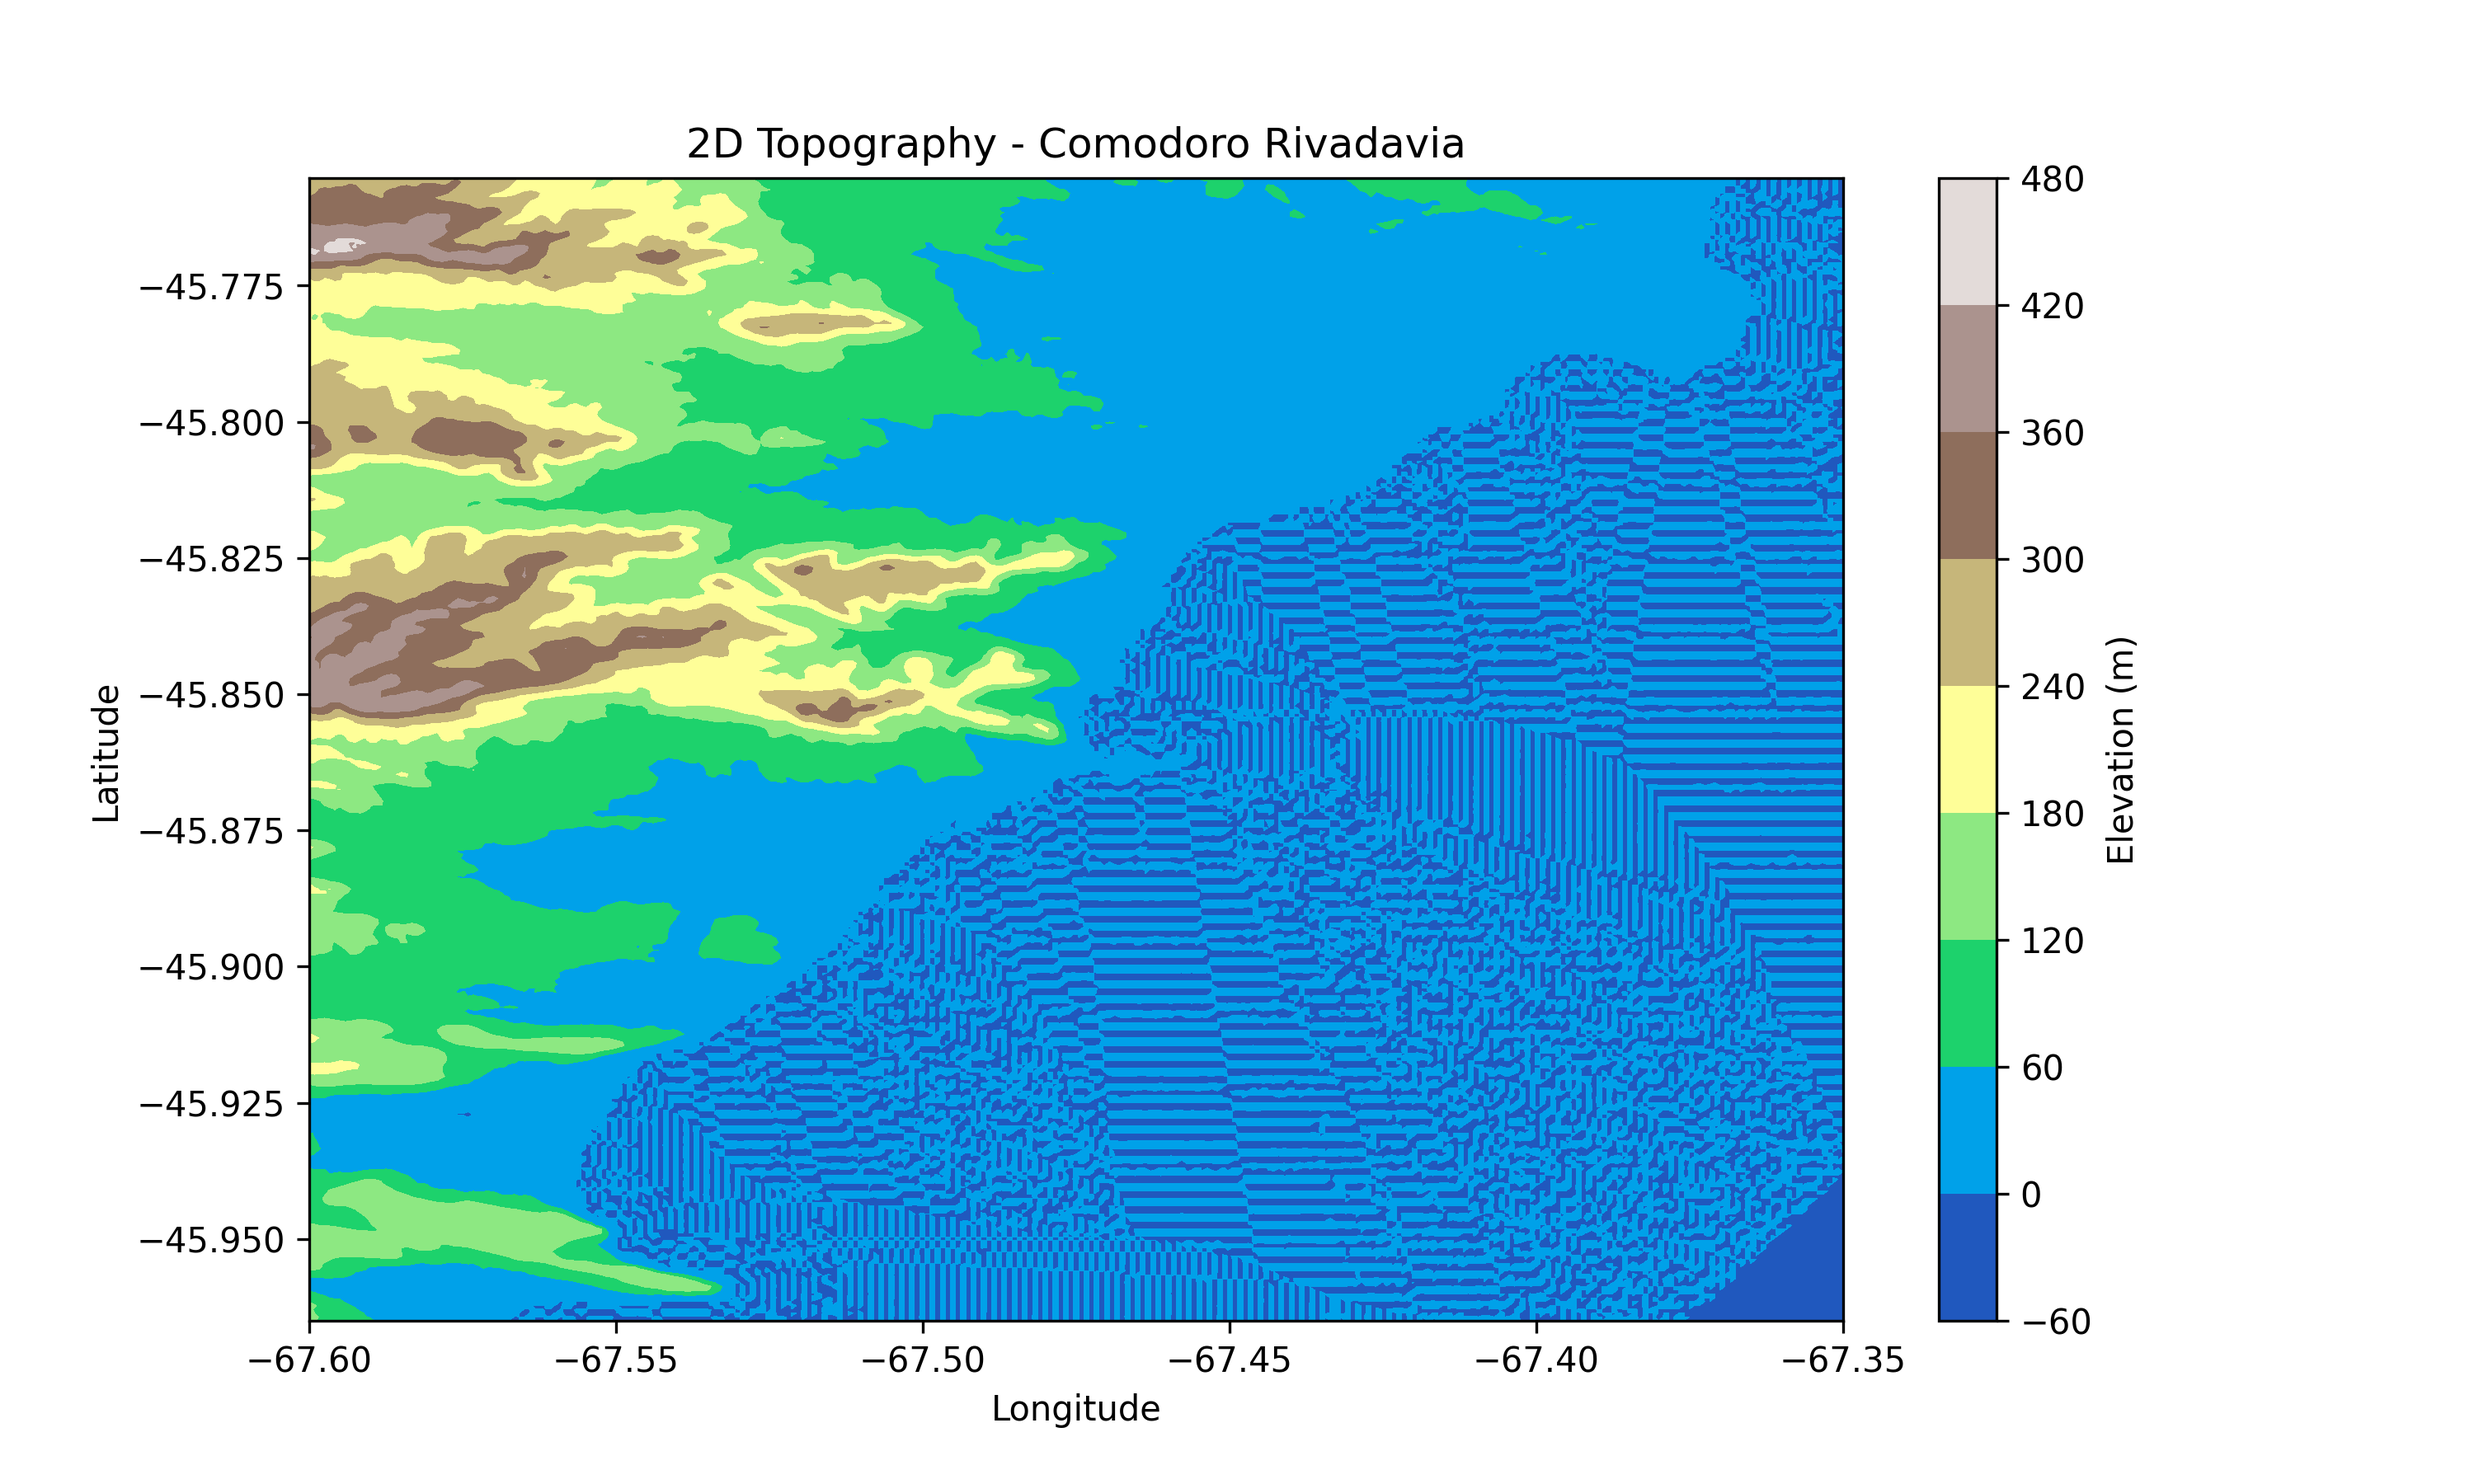
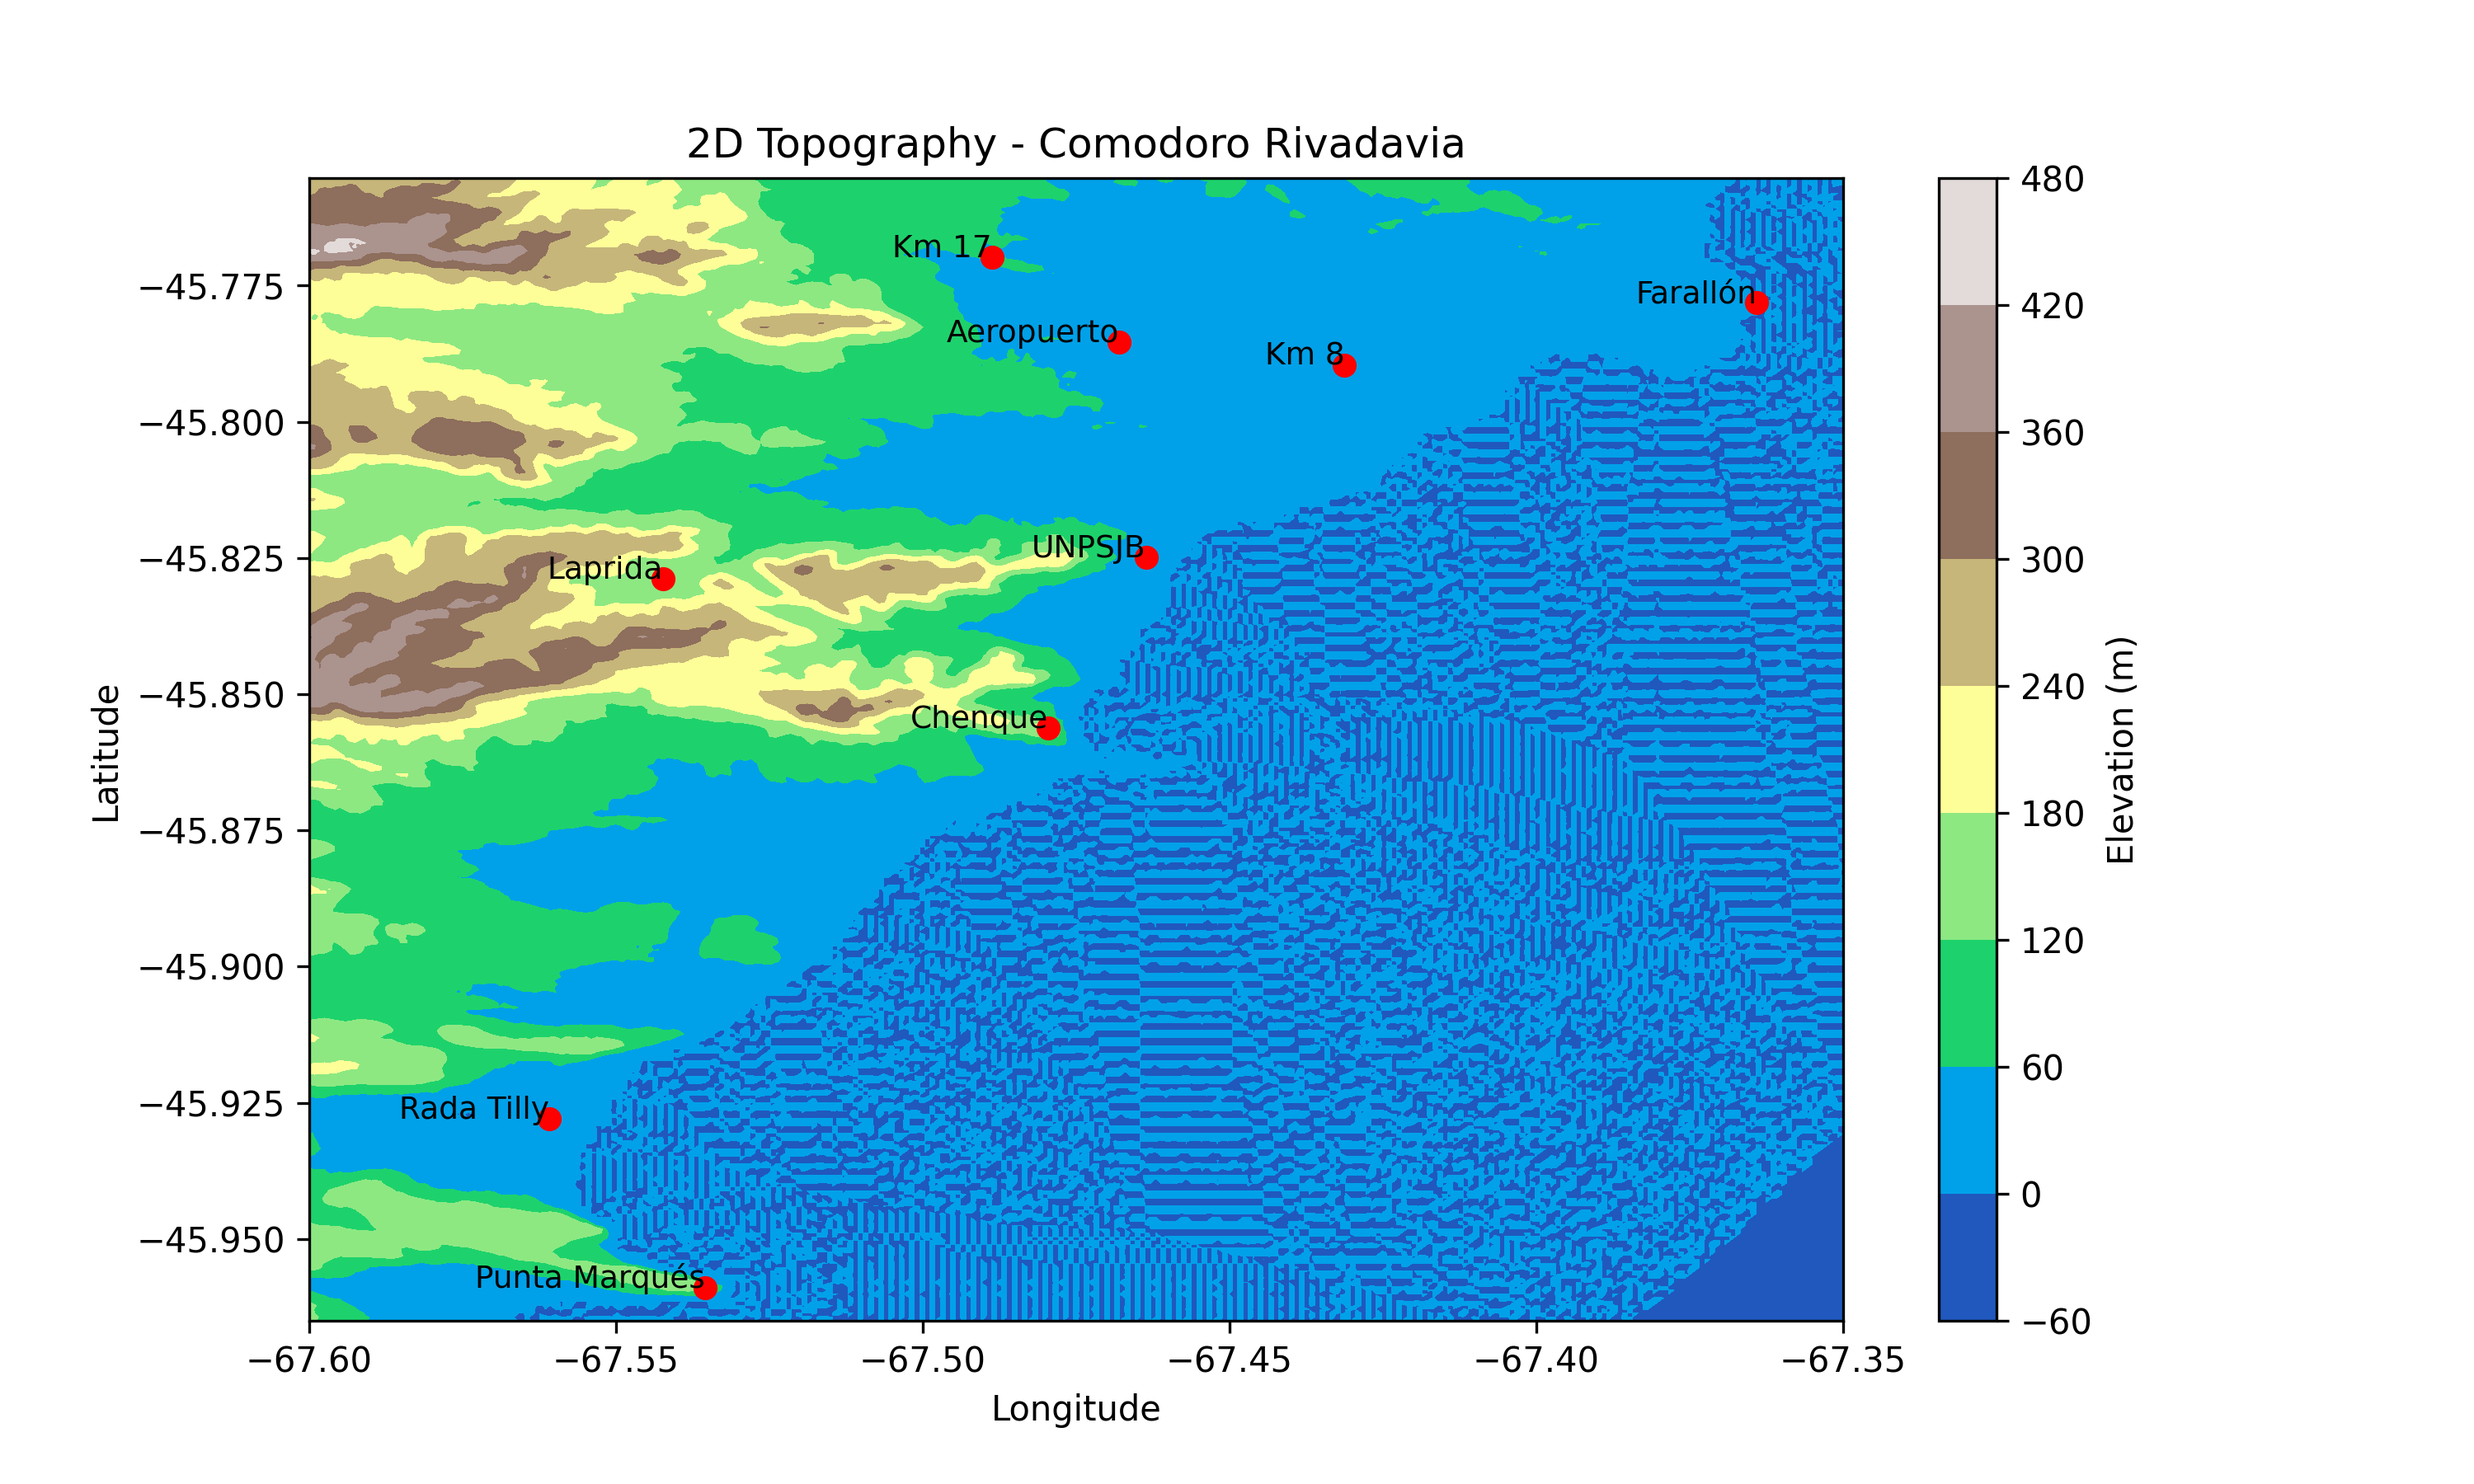
LOS computing with cpp

diff --git a/solver/src/los.cpp b/solver/src/los.cpp
@@ -1,0 +1,113 @@
+#include <iostream>
+#include <fstream>
+#include <sstream>
+#include <vector>
+#include <string>
+#include <algorithm>
+#include <cmath>
+
+// ------------------- Structs -------------------
+struct Point {
+    double lat, lng, alt;
+};
+
+// ------------------- CSV Reader -------------------
+std::vector<Point> readCSV(const std::string &filename) {
+    std::vector<Point> points;
+    std::ifstream file(filename);
+    if(!file.is_open()) {
+        std::cerr << "Cannot open file " << filename << std::endl;
+        return points;
+    }
+
+    std::string line;
+    std::getline(file, line); // skip header
+
+    while (std::getline(file, line)) {
+        std::stringstream ss(line);
+        std::string token;
+        Point p;
+        std::getline(ss, token, ','); p.lat = std::stod(token);
+        std::getline(ss, token, ','); p.lng = std::stod(token);
+        std::getline(ss, token, ','); p.alt = std::stod(token);
+        points.push_back(p);
+    }
+    return points;
+}
+
+// ------------------- Utility Functions -------------------
+int findIndex(const std::vector<double>& arr, double val) {
+    auto it = std::lower_bound(arr.begin(), arr.end(), val);
+    if(it == arr.end()) return arr.size()-2;
+    int idx = std::max(int(it - arr.begin() - 1), 0);
+    return idx;
+}
+
+// ------------------- Bilinear Interpolation -------------------
+double bilinearInterpolation(double lat, double lng,
+                             const std::vector<double>& lats,
+                             const std::vector<double>& lngs,
+                             const std::vector<std::vector<double>>& grid) {
+    int i = findIndex(lats, lat);
+    int j = findIndex(lngs, lng);
+
+    double x1 = lngs[j], x2 = lngs[j+1];
+    double y1 = lats[i], y2 = lats[i+1];
+    double Q11 = grid[i][j];
+    double Q21 = grid[i][j+1];
+    double Q12 = grid[i+1][j];
+    double Q22 = grid[i+1][j+1];
+
+    double fxy1 = ((x2-lng)/(x2-x1))*Q11 + ((lng-x1)/(x2-x1))*Q21;
+    double fxy2 = ((x2-lng)/(x2-x1))*Q12 + ((lng-x1)/(x2-x1))*Q22;
+    double fxy  = ((y2-lat)/(y2-y1))*fxy1 + ((lat-y1)/(y2-y1))*fxy2;
+    return fxy;
+}
+
+// ------------------- Build Regular Grid -------------------
+void buildGrid(const std::vector<Point>& points,
+               std::vector<double>& unique_lats,
+               std::vector<double>& unique_lngs,
+               std::vector<std::vector<double>>& grid) {
+
+    // Extract unique sorted coordinates
+    for(const auto& p: points) { unique_lats.push_back(p.lat); unique_lngs.push_back(p.lng); }
+    std::sort(unique_lats.begin(), unique_lats.end());
+    std::sort(unique_lngs.begin(), unique_lngs.end());
+    unique_lats.erase(std::unique(unique_lats.begin(), unique_lats.end()), unique_lats.end());
+    unique_lngs.erase(std::unique(unique_lngs.begin(), unique_lngs.end()), unique_lngs.end());
+
+    // Initialize grid
+    grid.assign(unique_lats.size(), std::vector<double>(unique_lngs.size(), 0));
+
+    // Fill grid
+    for(const auto& p: points) {
+        int i = std::distance(unique_lats.begin(), std::lower_bound(unique_lats.begin(), unique_lats.end(), p.lat));
+        int j = std::distance(unique_lngs.begin(), std::lower_bound(unique_lngs.begin(), unique_lngs.end(), p.lng));
+        if(i >= int(unique_lats.size())) i = unique_lats.size()-1;
+        if(j >= int(unique_lngs.size())) j = unique_lngs.size()-1;
+        grid[i][j] = p.alt;
+    }
+}
+
+// ------------------- Line-of-Sight -------------------
+bool lineOfSight(double lat1, double lon1, double lat2, double lon2,
+                 double h1, double h2,
+                 const std::vector<double>& lats,
+                 const std::vector<double>& lngs,
+                 const std::vector<std::vector<double>>& grid,
+                 int num_samples=500) {
+
+    double elev1 = bilinearInterpolation(lat1, lon1, lats, lngs, grid) + h1;
+    double elev2 = bilinearInterpolation(lat2, lon2, lats, lngs, grid) + h2;
+
+    for(int k=0; k<=num_samples; ++k){
+        double t = k/double(num_samples);
+        double lat = lat1 + t*(lat2-lat1);
+        double lon = lon1 + t*(lon2-lon1);
+        double terrain = bilinearInterpolation(lat, lon, lats, lngs, grid);
+        double los = elev1 + t*(elev2-elev1);
+        if(terrain > los) return false; // blocked
+    }
+    return true; // clear
+}

diff --git a/python/topography/utils.py b/python/topography/utils.py
@@ -87,11 +87,10 @@ def read_csv_data(csv_file):
 def create_meshgrid_interpolation(lat, lng, alt, resolution=300, method="cubic"):
     """
     Convert flat lat/lng/alt arrays into meshgrid suitable for plotting.
-    
     Parameters:
+        lat, lng, alt (1D arrays)
         resolution (int): Number of points along each axis for interpolation.
         method (str): Interpolation method: 'cubic', 'linear', 'nearest'.
-    
     Returns:
         lat_grid, lon_grid, elev_grid (2D arrays)
     """
@@ -111,12 +110,29 @@ def create_meshgrid_interpolation(lat, lng, alt, resolution=300, method="cubic")
 
 
 def create_meshgrid_reshape(lat, lng, alt):
+    """
+    Convert flat lat/lng/alt arrays into meshgrid by reshaping.
+    Assumes data is on a regular grid.
+    Parameters:
+        lat, lng, alt (1D arrays)
+    Returns:
+        lat_grid, lon_grid, elev_grid (2D arrays)
+    """
     lats = np.unique(lat)
-    lngs = np.unique(lng)
-    
-    elev_grid = alt.reshape(len(lats), len(lngs))
-    lat_grid, lon_grid = np.meshgrid(lats, lngs, indexing="ij")
-    
+    lons = np.unique(lng)
+
+    elev_grid = np.full((len(lats), len(lons)), np.nan)
+
+    lat_to_idx = {v: i for i, v in enumerate(lats)}
+    lon_to_idx = {v: j for j, v in enumerate(lons)}
+
+    for la, lo, al in zip(lat, lng, alt):
+        i = lat_to_idx[la]
+        j = lon_to_idx[lo]
+        elev_grid[i, j] = al
+
+    lon_grid, lat_grid = np.meshgrid(lons, lats)
+
     return lat_grid, lon_grid, elev_grid
 
 
@@ -131,7 +147,7 @@ def plot_3d(lat_grid, lon_grid, elev_grid, file_path=None):
     ax.view_init(elev=30, azim=-60)
     if file_path:
         plt.savefig(file_path, dpi=300)
-        print("Saved 3D plot as topography_3d.png")
+        print("Saved 3D plot as", file_path)
     plt.show()
 
 
@@ -149,5 +165,5 @@ def plot_2d(lat_grid, lon_grid, elev_grid, locations=[], file_path=None):
             plt.text(lon, lat, name, color="black", fontsize=9, ha="right")
     if file_path:
         plt.savefig(file_path, dpi=300)
-        print("Saved 2D plot as topography_2d.png")
+        print("Saved 2D plot as ", file_path)
     plt.show()

diff --git a/python/topography/make_charts.py b/python/topography/make_charts.py
@@ -20,8 +20,6 @@ lon_span=0.25
 lat, lng, alt = read_csv_data("data/topography_nasa.csv")
 
 # Convert to meshgrid for plotting
-lat_grid, lon_grid, elev_grid = create_meshgrid_interpolation(lat, lng, alt)
-#lat_grid, lon_grid, elev_grid = create_meshgrid_reshape(lat, lng, alt)
 
 # Plot 3D surface
 #plot_3d(lat_grid, lon_grid, elev_grid)
@@ -32,6 +30,7 @@ locations = [
     (-45.769812, -67.488767, "Km 17"),
     (-45.824869, -67.463616, "UNPSJB"),
     (-45.927944, -67.560873, "Rada Tilly"),
+    (-45.869743, -67.546032, "Moure"),
     (-45.856229, -67.479608, "Chenque"),
     (-45.789584, -67.431268, "Km 8"),
     (-45.778171, -67.364135, "Farallón"),
@@ -39,5 +38,14 @@ locations = [
     (-45.828837, -67.542404, "Laprida") 
 ]
 
-plot_2d(lat_grid, lon_grid, elev_grid, [], file_path="topography_2d_interpolation.png")
-#plot_2d(lat_grid, lon_grid, elev_grid, [], file_path="topography_2d_reshape.png")
+#lat_grid, lon_grid, elev_grid = create_meshgrid_interpolation(lat, lng, alt)
+#print(f"lat_grid shape: {lat_grid.shape}")
+#print(f"lon_grid shape: {lon_grid.shape}")
+#print(f"elev_grid shape: {elev_grid.shape}")
+#plot_2d(lat_grid, lon_grid, elev_grid, locations, file_path="topography_2d_interpolation.png")
+
+lat_grid, lon_grid, elev_grid = create_meshgrid_reshape(lat, lng, alt)
+print(f"lat_grid shape: {lat_grid.shape}")
+print(f"lon_grid shape: {lon_grid.shape}")
+print(f"elev_grid shape: {elev_grid.shape}")
+plot_2d(lat_grid, lon_grid, elev_grid, locations, file_path="topography_2d_reshape.png")

diff --git a/solver/src/main.cpp b/solver/src/main.cpp
@@ -3,8 +3,12 @@
 #include <iostream>
 #include <cstring>
 #include "constants.cpp"
+#include "los.cpp"
+
 
 int main(int argc, char **argv) {
+
+    std::string filename;
 
     for(int i = 0; i < argc; i++) {    
         if(strcmp(argv[i], "-h") == 0 || strcmp(argv[i], "--help") == 0 || argc == 1)
@@ -12,12 +16,31 @@ int main(int argc, char **argv) {
         if(strcmp(argv[i], "-f") == 0 || strcmp(argv[i], "--file") == 0) {
             if(i+1 < argc){
                 const char* file = argv[i+1];
+                filename = std::string(file);
                 // Read and parse json file with model data
             }else{
                 utils::printHelp(MANUAL);
                 std::cerr << std::endl << "Error in argument -f (--file)" << std::endl;
+                exit(1);
             }
         }
+    }
+
+    auto points = readCSV(filename);
+
+    std::vector<double> unique_lats, unique_lngs;
+    std::vector<std::vector<double>> elev_grid;
+    buildGrid(points, unique_lats, unique_lngs, elev_grid);
+
+    // Example: line of sight between two points
+    double lat1=-45.825412, lon1=-67.458747; // esollera
+    double lat2=-45.825497, lon2=-67.459707; // playa km 4
+    double h1=2.0, h2=2.0; // observer/target height
+
+    if(lineOfSight(lat1, lon1, lat2, lon2, h1, h2, unique_lats, unique_lngs, elev_grid)) {
+        std::cout << "Line of sight is clear.\n";
+    } else {
+        std::cout << "Line of sight is blocked by terrain.\n";
     }
 
     return 0;
